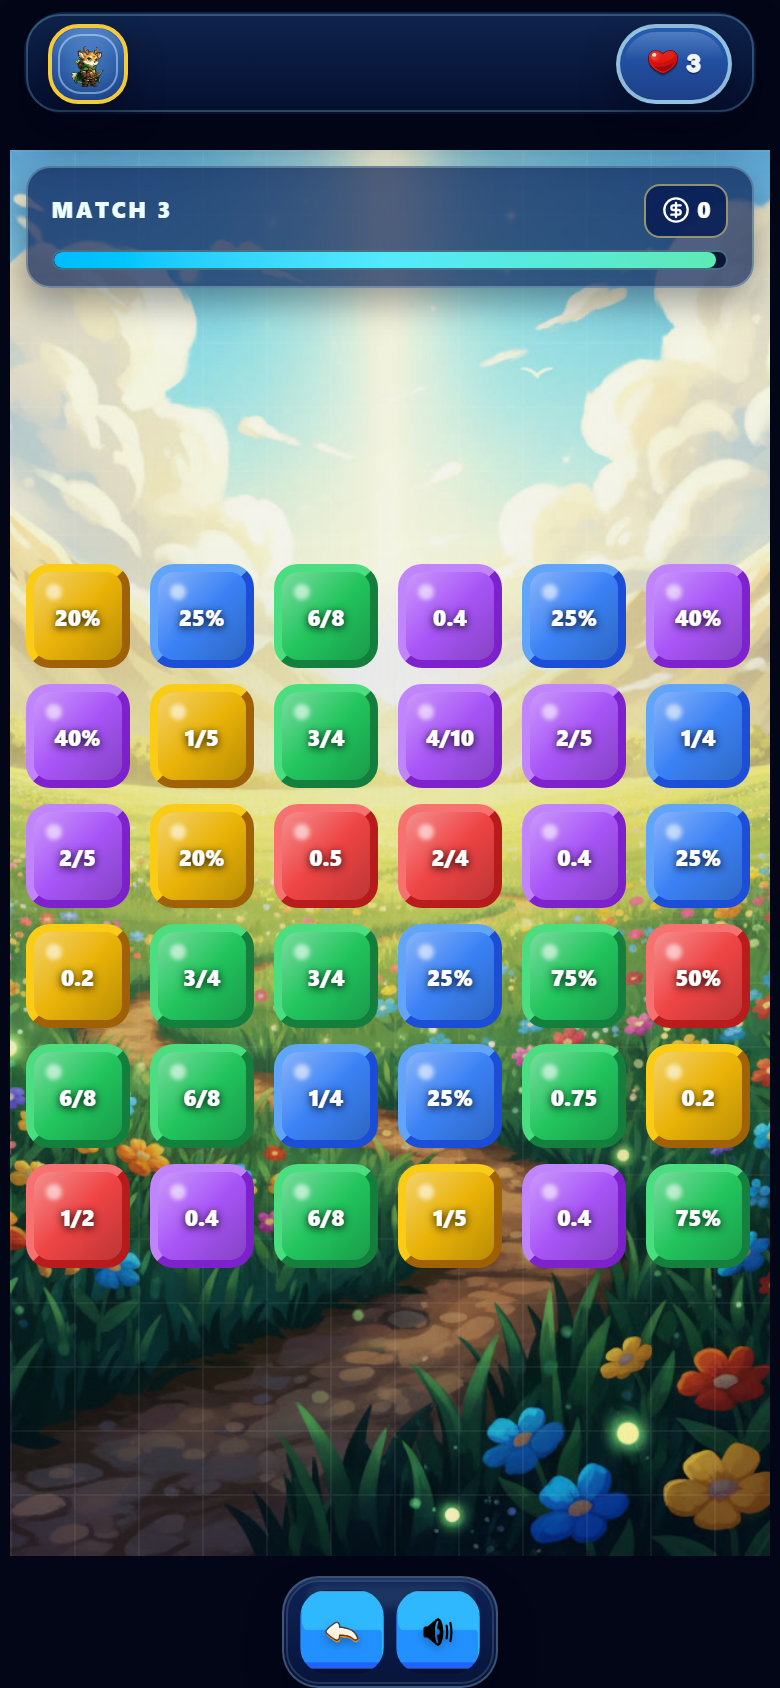
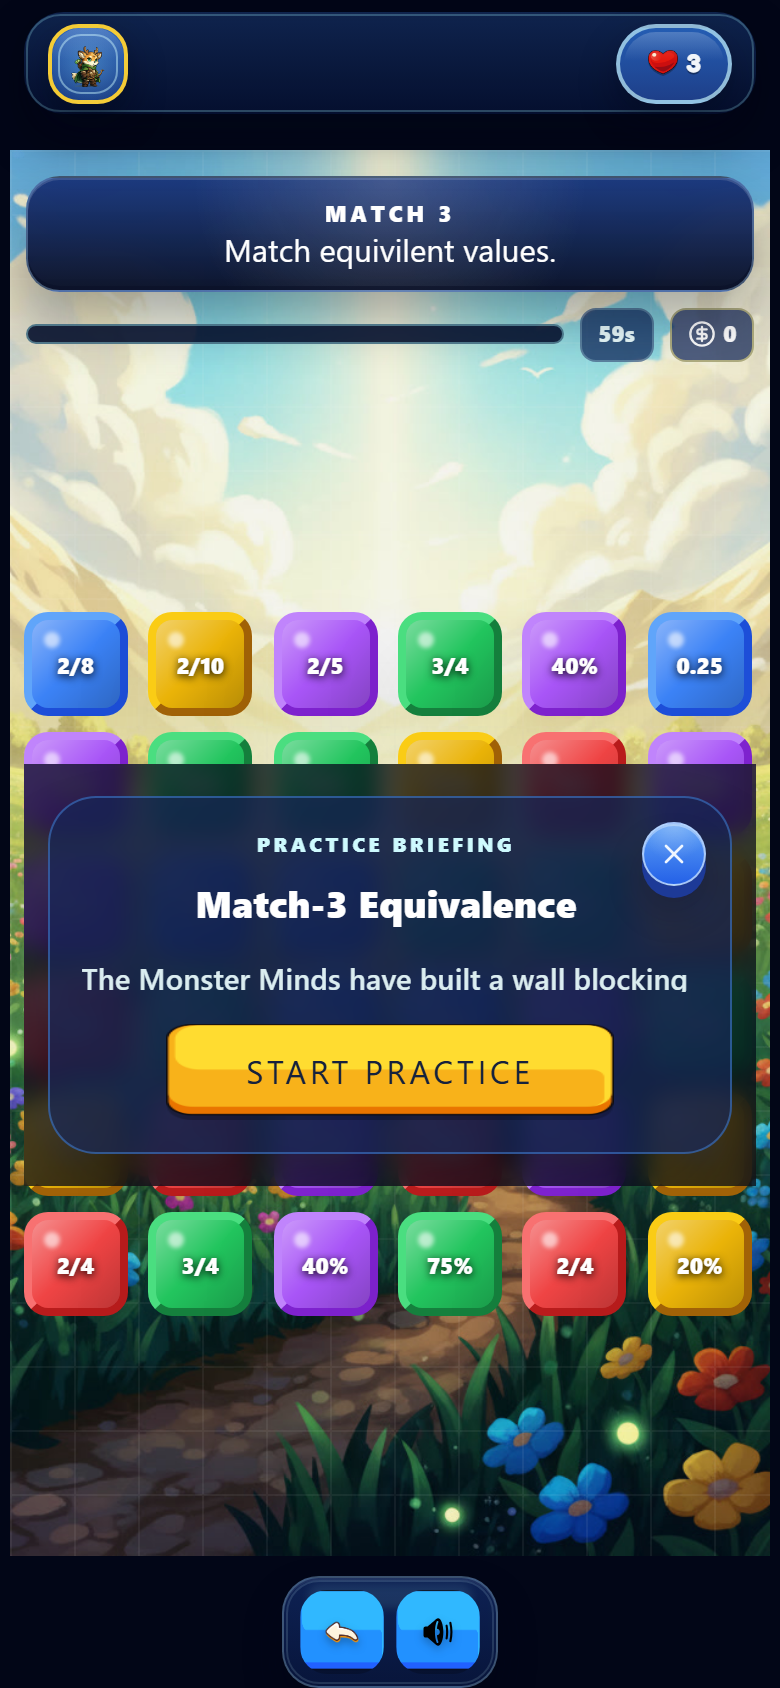
up

diff --git a/src/games/FractionMatchGame.tsx b/src/games/FractionMatchGame.tsx
@@ -3,8 +3,11 @@ import { CircleDollarSign, ChevronLeft } from 'lucide-react';
 import { AnimatePresence, motion } from 'motion/react';
 import GameplaySceneBackdrop from '../components/GameplaySceneBackdrop';
 import factorFrenzyBackground from '../assets/maps/backgroundsforgames/Factor Frenzy.jpg';
+import PracticeIntroPopup from '../components/game-ui/PracticeIntroPopup';
+import { GameQuestionCard } from '../components/game-ui/GameUiKit';
+import { MiniGameShellContractProps } from '../app/gameplaySessionContract';
 
-interface FractionMatchGameProps {
+interface FractionMatchGameProps extends MiniGameShellContractProps {
   levelId: number;
   miniGameLevel?: number;
   avatarId: string;
@@ -222,16 +225,24 @@ const BevelledGem: React.FC<{
 const MatchGameShell: React.FC<{
   children: React.ReactNode;
   XP: number;
-  timerProgress: number;
+  completionProgress: number;
+  timeLeft: number;
   levelName: string;
+  questionText: React.ReactNode;
+  fireActive?: boolean;
+  firePulse?: number;
   variantGameType: 'fraction_match' | 'cloud_collapse';
   useSharedTopHud?: boolean;
   onBack: () => void;
 }> = ({
   children,
   XP,
-  timerProgress,
+  completionProgress,
+  timeLeft,
   levelName,
+  questionText,
+  fireActive = false,
+  firePulse = 0,
   variantGameType,
   useSharedTopHud = false,
   onBack,
@@ -277,10 +288,11 @@ const MatchGameShell: React.FC<{
                   <span>{XP}</span>
                 </div>
               </div>
-              <div className="relative h-3 overflow-hidden rounded-full border border-cyan-200/45 bg-[#04102c]/90">
+              <div className={`relative h-3 overflow-hidden rounded-full border border-cyan-200/45 bg-[#04102c]/90 ${fireActive ? 'shadow-[0_0_18px_rgba(251,146,60,0.85)]' : ''}`}>
                 <motion.div
-                  className="absolute inset-y-0 left-0 rounded-full bg-gradient-to-r from-sky-400 via-cyan-300 to-emerald-300"
-                  animate={{ width: `${timerProgress}%` }}
+                  className={`absolute inset-y-0 left-0 rounded-full ${fireActive ? 'bg-[linear-gradient(90deg,#fbbf24,#fb923c,#ef4444,#facc15)]' : 'bg-gradient-to-r from-sky-400 via-cyan-300 to-emerald-300'}`}
+                  animate={{ width: `${completionProgress}%` }}
+                  transition={{ duration: fireActive ? 0.14 : 0.22, ease: 'easeOut' }}
                 />
               </div>
             </div>
@@ -290,32 +302,75 @@ const MatchGameShell: React.FC<{
         <div className={`relative min-h-0 flex-1 ${useSharedTopHud ? 'pt-[calc(env(safe-area-inset-top)+5.15rem)]' : ''}`}>
           <div className="absolute inset-0 opacity-[0.06]" style={{ backgroundImage: 'linear-gradient(#fff 1px, transparent 1px), linear-gradient(90deg, #fff 1px, transparent 1px)', backgroundSize: '32px 32px' }} />
 
-          {useSharedTopHud ? (
-            <div className="absolute inset-x-2 top-2 z-20 rounded-xl border border-cyan-100/30 bg-[#0a1f56]/70 px-3 py-2 shadow-[0_8px_16px_rgba(2,6,23,0.35)] sm:inset-x-4">
-              <div className="flex items-center justify-between gap-2">
-                <span className="truncate text-[11px] font-black uppercase tracking-[0.12em] text-cyan-50">
-                  {levelName}
-                </span>
-                <div className="flex items-center gap-1 rounded-lg border border-yellow-200/55 bg-[#0a1f56]/90 px-2 py-1 text-[11px] font-black text-yellow-100">
-                  <CircleDollarSign className="h-3.5 w-3.5 text-yellow-300" />
-                  <span>{XP}</span>
-                </div>
-              </div>
-              <div className="relative mt-1.5 h-2.5 overflow-hidden rounded-full border border-cyan-200/40 bg-[#04102c]/90">
-                <motion.div
-                  className="absolute inset-y-0 left-0 rounded-full bg-gradient-to-r from-sky-400 via-cyan-300 to-emerald-300"
-                  animate={{ width: `${timerProgress}%` }}
-                />
-              </div>
-            </div>
-          ) : null}
+           {useSharedTopHud ? (
+             <div className="absolute inset-x-2 top-2 z-20 sm:inset-x-4">
+               <div className="mx-auto w-full max-w-[44rem]">
+                 <GameQuestionCard title="Match 3" className="bg-[#0a1f56]/70 backdrop-blur-sm">
+                   {questionText}
+                 </GameQuestionCard>
+                 <div className="mt-2 flex items-center gap-2">
+                   <div className={`relative h-2.5 flex-1 overflow-hidden rounded-full border border-cyan-200/40 bg-[#04102c]/90 ${fireActive ? 'shadow-[0_0_18px_rgba(251,146,60,0.85)]' : ''}`}>
+                     <motion.div
+                       className={`absolute inset-y-0 left-0 rounded-full ${fireActive ? 'bg-[linear-gradient(90deg,#fbbf24,#fb923c,#ef4444,#facc15)]' : 'bg-gradient-to-r from-sky-400 via-cyan-300 to-emerald-300'}`}
+                       animate={{ width: `${completionProgress}%` }}
+                       transition={{ duration: fireActive ? 0.14 : 0.22, ease: 'easeOut' }}
+                       style={fireActive ? { filter: 'saturate(1.1)' } : undefined}
+                     />
+                     {fireActive ? (
+                       <motion.div
+                         key={`fire-bar-${firePulse}`}
+                         className="pointer-events-none absolute inset-0"
+                         initial={{ opacity: 0 }}
+                         animate={{ opacity: [0, 0.9, 0.5, 0] }}
+                         transition={{ duration: 0.7, ease: 'easeOut' }}
+                         style={{ background: 'radial-gradient(circle at 30% 50%, rgba(251,146,60,0.55), transparent 55%), radial-gradient(circle at 70% 50%, rgba(250,204,21,0.38), transparent 55%)' }}
+                       />
+                     ) : null}
+                   </div>
+                   <div className="flex items-center gap-2">
+                     <div className="rounded-lg border border-cyan-100/26 bg-[#0a1f56]/70 px-2 py-1 text-[11px] font-black tabular-nums text-cyan-50">
+                       {timeLeft}s
+                     </div>
+                     <div className="flex items-center gap-1 rounded-lg border border-yellow-200/55 bg-[#0a1f56]/70 px-2 py-1 text-[11px] font-black text-yellow-100">
+                       <CircleDollarSign className="h-3.5 w-3.5 text-yellow-300" />
+                       <span>{XP}</span>
+                     </div>
+                   </div>
+                 </div>
+               </div>
+             </div>
+           ) : null}
 
-          <div className={`relative z-10 flex h-full w-full items-center justify-center px-2 pb-[calc(env(safe-area-inset-bottom)+0.9rem)] ${useSharedTopHud ? 'pt-16' : 'pt-2'} sm:px-4`}>
-            {children}
-          </div>
-        </div>
-      </div>
-    </div>
+           <div className={`relative z-10 flex h-full w-full items-center justify-center px-2 pb-[calc(env(safe-area-inset-bottom)+0.9rem)] ${useSharedTopHud ? 'pt-28' : 'pt-2'} sm:px-4`}>
+             <AnimatePresence>
+               {fireActive ? (
+                 <motion.div
+                   key={`fire-overlay-${firePulse}`}
+                   className="pointer-events-none absolute inset-0 z-[1]"
+                   initial={{ opacity: 0 }}
+                   animate={{ opacity: 1 }}
+                   exit={{ opacity: 0 }}
+                   transition={{ duration: 0.18, ease: 'easeOut' }}
+                   style={{ mixBlendMode: 'screen' }}
+                 >
+                   <motion.div
+                     className="absolute inset-0"
+                     animate={{ opacity: [0.18, 0.42, 0.22], scale: [0.98, 1.02, 1] }}
+                     transition={{ duration: 0.75, ease: 'easeInOut' }}
+                     style={{
+                       background:
+                         'radial-gradient(circle at 50% 80%, rgba(251,146,60,0.48) 0%, rgba(245,158,11,0.28) 22%, transparent 60%), radial-gradient(circle at 40% 55%, rgba(239,68,68,0.22) 0%, transparent 62%), radial-gradient(circle at 70% 60%, rgba(250,204,21,0.18) 0%, transparent 58%)',
+                       filter: 'blur(6px)',
+                     }}
+                   />
+                 </motion.div>
+               ) : null}
+             </AnimatePresence>
+             <div className="relative z-[2]">{children}</div>
+           </div>
+         </div>
+       </div>
+     </div>
   );
 };
 
@@ -325,10 +380,12 @@ const FractionMatchGame: React.FC<FractionMatchGameProps> = ({
   avatarId: _avatarId,
   useSharedTopHud = false,
   isBoss: _isBoss = false,
+  isPractice,
   variantGameType = 'fraction_match',
   onVictory,
   onGameOver,
   onBack,
+  gameTitle,
 }) => {
   const [board, setBoard] = useState<BoardCell[]>([]);
   const [selectedIdx, setSelectedIdx] = useState<number | null>(null);
@@ -336,9 +393,14 @@ const FractionMatchGame: React.FC<FractionMatchGameProps> = ({
   const [isProcessing, setIsProcessing] = useState(false);
   const [timeLeft, setTimeLeft] = useState(ROUND_SECONDS);
   const [gemSize, setGemSize] = useState(52);
+  const [showPracticeIntro, setShowPracticeIntro] = useState(Boolean(isPractice));
+  const [fireActive, setFireActive] = useState(false);
+  const [firePulse, setFirePulse] = useState(0);
 
   const endedRef = useRef(false);
   const boardGridRef = useRef<HTMLDivElement | null>(null);
+  const fireTimeoutRef = useRef<number | null>(null);
+  const lastMatchAtRef = useRef<number | null>(null);
 
   const resolvedLevel = useMemo(() => Math.max(1, miniGameLevel || levelId || 1), [levelId, miniGameLevel]);
   const targetScore = useMemo(() => BASE_TARGET_SCORE + (resolvedLevel * TARGET_SCORE_STEP), [resolvedLevel]);
@@ -357,11 +419,23 @@ const FractionMatchGame: React.FC<FractionMatchGameProps> = ({
     setScore(0);
     setIsProcessing(false);
     setTimeLeft(ROUND_SECONDS);
+    setFireActive(false);
+    lastMatchAtRef.current = null;
+    if (fireTimeoutRef.current !== null) window.clearTimeout(fireTimeoutRef.current);
+    fireTimeoutRef.current = null;
   }, [includeDecimals]);
 
   useEffect(() => {
     resetBoard();
   }, [resolvedLevel, resetBoard]);
+
+  useEffect(() => () => {
+    if (fireTimeoutRef.current !== null) window.clearTimeout(fireTimeoutRef.current);
+  }, []);
+
+  useEffect(() => {
+    setShowPracticeIntro(Boolean(isPractice));
+  }, [isPractice]);
 
   useEffect(() => {
     const updateGemSize = () => {
@@ -436,6 +510,7 @@ const FractionMatchGame: React.FC<FractionMatchGameProps> = ({
 
   const processBoard = useCallback(async (inputBoard: BoardCell[]) => {
     let workingBoard = [...inputBoard];
+    let chainCount = 0;
 
     while (!endedRef.current) {
       const matches = findMatches(workingBoard);
@@ -446,6 +521,19 @@ const FractionMatchGame: React.FC<FractionMatchGameProps> = ({
       }
 
       setIsProcessing(true);
+
+      chainCount += 1;
+      const now = Date.now();
+      const elapsedSinceLast = lastMatchAtRef.current === null ? Infinity : now - lastMatchAtRef.current;
+      lastMatchAtRef.current = now;
+
+      const shouldFire = matches.length > 3 || chainCount > 1 || elapsedSinceLast < 850;
+      if (shouldFire) {
+        setFireActive(true);
+        setFirePulse((prev) => prev + 1);
+        if (fireTimeoutRef.current !== null) window.clearTimeout(fireTimeoutRef.current);
+        fireTimeoutRef.current = window.setTimeout(() => setFireActive(false), 900);
+      }
 
       matches.forEach((idx) => {
         workingBoard[idx] = null;
@@ -520,17 +608,28 @@ const FractionMatchGame: React.FC<FractionMatchGameProps> = ({
     await processBoard(swapped);
   }, [board, isProcessing, processBoard, selectedIdx]);
 
-  const timerProgress = Math.max(0, Math.min(100, (timeLeft / ROUND_SECONDS) * 100));
+  const completionProgress = Math.max(0, Math.min(100, (XP / Math.max(1, targetScore)) * 100));
 
   return (
     <MatchGameShell
       XP={XP}
-      timerProgress={timerProgress}
+      completionProgress={completionProgress}
+      timeLeft={timeLeft}
       levelName={levelName}
+      questionText="Match equivilent values."
+      fireActive={fireActive}
+      firePulse={firePulse}
       variantGameType={variantGameType}
       useSharedTopHud={useSharedTopHud}
       onBack={onBack}
     >
+      <PracticeIntroPopup
+        open={showPracticeIntro}
+        title={gameTitle || 'Match 3'}
+        body="The Monster Minds have built a wall blocking our path, break the wall by matching frations to their equivilants."
+        briefing={null}
+        onAction={() => setShowPracticeIntro(false)}
+      />
       <div
         ref={boardGridRef}
         className="grid w-[min(94vw,94vh)] grid-cols-6 gap-2 sm:gap-2.5"

diff --git a/src/games/PercentPowerGame.tsx b/src/games/PercentPowerGame.tsx
@@ -6,14 +6,13 @@ import GameplaySceneBackdrop from '../components/GameplaySceneBackdrop';
 import percentPowerBackground from '../assets/maps/backgroundsforgames/percent power.jpg';
 import { triggerHaptic } from '../haptics';
 import { GameQuestionCard } from '../components/game-ui/GameUiKit';
+import PracticeIntroPopup from '../components/game-ui/PracticeIntroPopup';
 import {
   emitMiniGameSessionEvent,
-  type GameplaySessionEventHandlers,
-  type GameplaySessionState,
+  MiniGameShellContractProps,
 } from '../app/gameplaySessionContract';
-import { formatFantasyPrompt } from '../utils/fantasyPrompt';
 
-interface PercentPowerGameProps {
+interface PercentPowerGameProps extends MiniGameShellContractProps {
   levelId: number;
   miniGameLevel?: number;
   avatarId: string;
@@ -21,8 +20,6 @@ interface PercentPowerGameProps {
   onVictory: (stars: number, XP: number) => void;
   onGameOver: (XP: number) => void;
   onBack: () => void;
-  sessionState?: GameplaySessionState;
-  sessionEvents?: GameplaySessionEventHandlers;
 }
 
 interface PercentPowerQuestion {
@@ -159,6 +156,9 @@ const PercentPowerGame: React.FC<PercentPowerGameProps> = ({
   onBack,
   sessionState,
   sessionEvents,
+  isPractice,
+  practiceBriefing,
+  gameTitle,
 }) => {
   const resolvedLevel = useMemo(() => Math.max(1, Math.min(10, miniGameLevel || levelId || 1)), [levelId, miniGameLevel]);
   const totalRounds = useMemo(() => Math.min(10, 5 + Math.floor(resolvedLevel / 2)), [resolvedLevel]);
@@ -173,6 +173,7 @@ const PercentPowerGame: React.FC<PercentPowerGameProps> = ({
   const [localLives, setLocalLives] = useState(FALLBACK_LIVES);
   const [localTimer, setLocalTimer] = useState(FALLBACK_TIMER);
   const [isLocked, setLocked] = useState(false);
+  const [showPracticeIntro, setShowPracticeIntro] = useState(Boolean(isPractice));
   const scoreRef = useRef(0);
   const didEndRef = useRef(false);
 
@@ -199,6 +200,10 @@ const PercentPowerGame: React.FC<PercentPowerGameProps> = ({
     setLocalTimer(FALLBACK_TIMER);
     setLocked(false);
   }, [resolvedLevel]);
+
+  useEffect(() => {
+    setShowPracticeIntro(Boolean(isPractice));
+  }, [isPractice]);
 
   useEffect(() => {
     if (sessionState || didEndRef.current) return undefined;
@@ -324,6 +329,14 @@ const PercentPowerGame: React.FC<PercentPowerGameProps> = ({
         className="opacity-[0.98]"
       />
 
+      <PracticeIntroPopup
+        open={showPracticeIntro}
+        title={gameTitle || 'Percent Power'}
+        body="The portal is out of power - we cant advance. Power the core by solving the percent puzzles."
+        briefing={null}
+        onAction={() => setShowPracticeIntro(false)}
+      />
+
       {!useSharedTopHud ? (
         <div className="absolute left-0 right-0 top-[calc(env(safe-area-inset-top)+2px)] z-30 flex items-center justify-between px-3">
           <button
@@ -355,8 +368,8 @@ const PercentPowerGame: React.FC<PercentPowerGameProps> = ({
             </div>
           </div>
           <div className="mt-2">
-            <GameQuestionCard title="Percent Power" subtitle={question.helper} className="max-w-[44rem]">
-              {formatFantasyPrompt(question.prompt)}
+            <GameQuestionCard title="Percent Power" className="max-w-[44rem]">
+              Power the core by solving the percent puzzles.
             </GameQuestionCard>
           </div>
         </div>
@@ -369,8 +382,7 @@ const PercentPowerGame: React.FC<PercentPowerGameProps> = ({
           />
 
           <motion.div
-            className="relative flex h-[11.5rem] w-[11.5rem] items-center justify-center rounded-full border border-cyan-100/30 bg-[radial-gradient(circle,rgba(125,211,252,0.34),rgba(14,116,144,0.22)_38%,rgba(8,20,40,0.12)_68%,rgba(8,20,40,0)_100%)] shadow-[0_0_45px_rgba(34,211,238,0.2)] md:h-[13rem] md:w-[13rem]"
-            style={{ transform: 'translateY(0.35rem)' }}
+            className="absolute left-1/2 top-[56%] flex h-[11.5rem] w-[11.5rem] -translate-x-1/2 -translate-y-1/2 items-center justify-center rounded-full border border-cyan-100/30 bg-[radial-gradient(circle,rgba(125,211,252,0.34),rgba(14,116,144,0.22)_38%,rgba(8,20,40,0.12)_68%,rgba(8,20,40,0)_100%)] shadow-[0_0_45px_rgba(34,211,238,0.2)] md:h-[13rem] md:w-[13rem]"
             animate={
               feedback === 'correct'
                 ? { scale: [1, 1.06, 1], x: [0, -4, 4, -3, 3, 0], rotate: [0, 3, -3, 2, -2, 0] }
